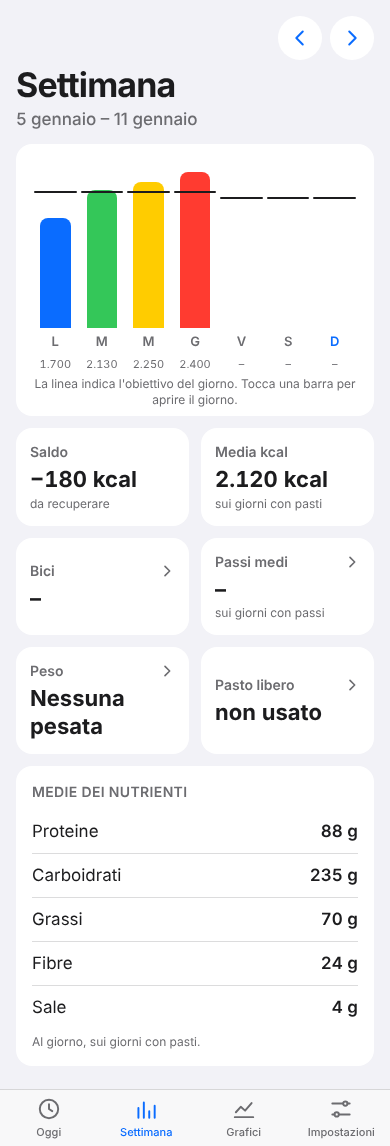
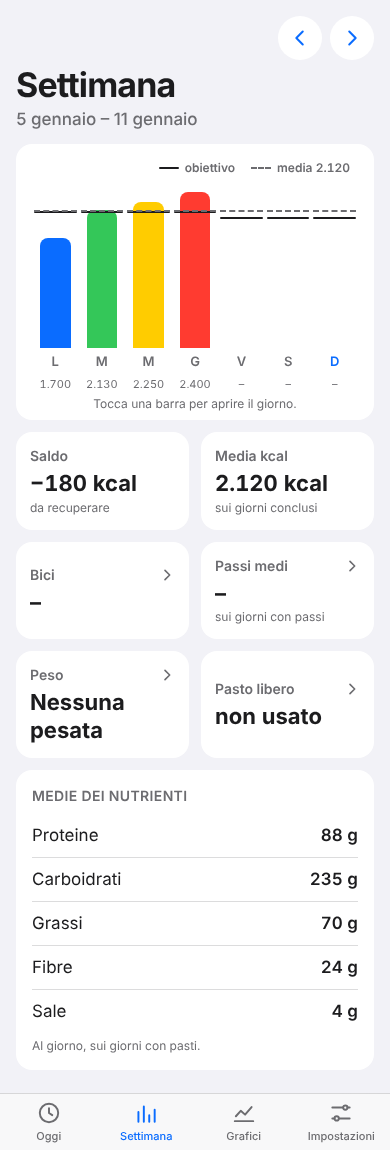
T5b.6 media della settimana sul grafico (in attesa di revisione)
Claude-Session: https://claude.ai/code/session_01Q1wTxDLrvVU4hsBJyp9sCk

diff --git a/src/engine/week.test.ts b/src/engine/week.test.ts
@@ -41,7 +41,8 @@ describe("weekSummary: settimana con dati", () => {
     day("2026-01-08", []), // senza pasti
     day("2026-01-12", [meal("fuori", 9999)]), // altra settimana
   ];
-  const w = weekSummary(MER, days, s);
+  // La settimana è già conclusa (oggi è il lunedì dopo): nessun giorno è escluso dalla media.
+  const w = weekSummary(MER, days, s, "2026-01-12");
 
   it("kcal e obiettivo di ogni giorno", () => {
     expect(w.days[0]).toMatchObject({ date: LUN, kcalEaten: 1750, kcalBudget: 1750, hasMeals: true });
@@ -90,5 +91,29 @@ describe("weekSummary: casi particolari", () => {
 
   it("nessun pasto libero se non usato", () => {
     expect(weekSummary(LUN, [day(LUN, [meal("a", 2000)])], s).freeMealUsed).toBe(false);
+  });
+});
+
+describe("media kcal sui giorni conclusi (§3.8, casi W, X, Y)", () => {
+  const GIO = "2026-01-08";
+  it("caso W: oggi giovedì; lun 2.000, mar senza pasti, mer 2.200, gio (oggi) 600 → media 2.100", () => {
+    const days = [day(LUN, [meal("a", 2000)]), day(MER, [meal("c", 2200)]), day(GIO, [meal("g", 600)])];
+    expect(weekSummary(GIO, days, s, GIO).avgKcal).toBe(2100);
+  });
+  it("caso X: oggi lunedì, pasti solo oggi → nessuna media", () => {
+    expect(weekSummary(LUN, [day(LUN, [meal("a", 800)])], s, LUN).avgKcal).toBeNull();
+  });
+  it("caso Y: settimana passata con 7 giorni di pasti → media sui 7 giorni", () => {
+    const days = ["2026-01-05", "2026-01-06", "2026-01-07", "2026-01-08", "2026-01-09", "2026-01-10", "2026-01-11"].map((d, i) => day(d, [meal(`m${i}`, 1800 + i * 100)]));
+    expect(weekSummary(LUN, days, s, "2026-01-20").avgKcal).toBe((1800 + 1900 + 2000 + 2100 + 2200 + 2300 + 2400) / 7);
+  });
+  it("oggi con pasti non conta, ma gli altri giorni sì; senza giorni validi il trattino", () => {
+    const days = [day(LUN, [meal("a", 1500)]), day(MAR, [meal("b", 2500)])];
+    expect(weekSummary(MAR, days, s, MAR).avgKcal).toBe(1500);
+    expect(weekSummary(MAR, [day(MAR, [meal("b", 2500)])], s, MAR).avgKcal).toBeNull();
+  });
+  it("le medie dei nutrienti non cambiano: includono anche oggi", () => {
+    const days = [day(LUN, [meal("a", 2000, { protein: 100 })]), day(GIO, [meal("g", 600, { protein: 20 })])];
+    expect(weekSummary(GIO, days, s, GIO).avgNutrients?.protein).toBe(60);
   });
 });

diff --git a/src/app/components/week-chart.tsx b/src/app/components/week-chart.tsx
@@ -14,8 +14,22 @@ const FILL: Record<RingColor, string> = {
 const CHART_HEIGHT = 168;
 
 /** Sette barre delle kcal mangiate con la linea dell'obiettivo di ogni giorno. Toccare una barra apre quel giorno. */
-export function WeekChart({ bars, today }: { bars: WeekBar[]; today: string }) {
+export function WeekChart({ bars, today, avg }: { bars: WeekBar[]; today: string; avg: { kcal: number; ratio: number } | null }) {
   return (
+    <div>
+    {/* Legenda: dice quale linea è l'obiettivo e quale la media; sta sopra le barre, quindi non le copre mai. */}
+    <p className="flex flex-wrap items-center justify-end gap-x-4 gap-y-1 px-2 pb-1 text-xs font-semibold text-muted" aria-label="Legenda del grafico">
+      <span className="flex items-center gap-1.5">
+        <span aria-hidden="true" className="block h-0.5 w-5 rounded-full bg-fg" />
+        obiettivo
+      </span>
+      {avg && (
+        <span data-avg-label className="flex items-center gap-1.5 tabular-nums">
+          <span aria-hidden="true" className="block w-5 border-t-2 border-dashed border-muted" />
+          media {formatNumber(avg.kcal)}
+        </span>
+      )}
+    </p>
     <ul className="flex" aria-label="Kcal mangiate per giorno">
       {bars.map((b) => {
         const label = `${formatDateLong(b.date)}: ${b.hasMeals ? `${formatNumber(b.eaten)} kcal mangiate` : "nessun pasto"}, obiettivo ${formatNumber(b.target)} kcal`;
@@ -24,6 +38,7 @@ export function WeekChart({ bars, today }: { bars: WeekBar[]; today: string }) {
           <li key={b.date} className="flex-1">
             <Link href={isToday ? "/" : `/?d=${b.date}`} aria-label={label} className="flex min-h-11 flex-col items-center gap-1 px-0.5">
               <span className="relative block w-full" style={{ height: CHART_HEIGHT }}>
+                {avg && <span aria-hidden="true" data-avg-line className="absolute inset-x-0 z-10 block border-t-2 border-dashed border-muted" style={{ bottom: `calc(${avg.ratio * 100}% - 1px)` }} />}
                 {b.hasMeals && (
                   <span
                     className="absolute inset-x-1.5 bottom-0 block rounded-t-lg"
@@ -39,5 +54,6 @@ export function WeekChart({ bars, today }: { bars: WeekBar[]; today: string }) {
         );
       })}
     </ul>
+    </div>
   );
 }

diff --git a/src/app/lib/week-view.test.ts b/src/app/lib/week-view.test.ts
@@ -57,3 +57,30 @@ describe("buildWeekView", () => {
     expect(v.summary.totalKm).toBe(10);
   });
 });
+
+describe("linea della media kcal (T5b.6)", () => {
+  const eat = (date: string, kcal: number) => day(date, [meal(`m-${date}`, kcal)]);
+  it("la media è quella dei giorni conclusi e la linea sta sulla stessa scala delle barre", () => {
+    const days = [eat("2026-01-05", 2000), eat("2026-01-07", 2200), eat("2026-01-08", 600)];
+    const v = buildWeekView({ date: "2026-01-08", days, settings: s, today: "2026-01-08" });
+    expect(v.summary.avgKcal).toBe(2100);
+    const top = Math.max(...v.bars.map((b) => Math.max(b.barRatio, b.targetRatio)));
+    expect(v.avgRatio).not.toBeNull();
+    expect(v.avgRatio as number).toBeGreaterThan(0);
+    expect(v.avgRatio as number).toBeLessThanOrEqual(1);
+    expect(top).toBeLessThanOrEqual(1);
+    // 2.100 sulla stessa scala di una barra da 2.100: stessa altezza.
+    const bar2100 = buildWeekView({ date: "2026-01-08", days: [eat("2026-01-05", 2100)], settings: s, today: "2026-01-20" });
+    expect(bar2100.avgRatio).toBeCloseTo(bar2100.bars[0].barRatio, 10);
+  });
+  it("senza media (solo oggi con pasti) la linea non c'è", () => {
+    const v = buildWeekView({ date: "2026-01-05", days: [eat("2026-01-05", 800)], settings: s, today: "2026-01-05" });
+    expect(v.summary.avgKcal).toBeNull();
+    expect(v.avgRatio).toBeNull();
+  });
+  it("una media più alta di ogni barra e di ogni obiettivo non esce dal grafico", () => {
+    const days = [eat("2026-01-05", 2000)];
+    const v = buildWeekView({ date: "2026-01-05", days, settings: s, today: "2026-01-20" });
+    expect(v.avgRatio as number).toBeLessThanOrEqual(1);
+  });
+});

diff --git a/src/engine/week.ts b/src/engine/week.ts
@@ -29,7 +29,7 @@ export interface WeekSummary {
   days: WeekDayRow[];
   /** Saldo della regola (§3.3, con il tetto al margine) fino al giorno più recente con pasti, questo compreso; null se nessun giorno ha pasti. */
   balance: number | null;
-  /** Media delle kcal reali sui giorni con pasti; null se nessuno. */
+  /** Media delle kcal reali sui giorni con pasti, escluso oggi (è in corso: abbasserebbe la media); null se nessun giorno è valido (§3.8). */
   avgKcal: number | null;
   avgNutrients: NutrientAverages | null;
   /** Km in bici totali; null se nessun giorno ha km. */
@@ -49,7 +49,8 @@ function mean(values: number[]): number | null {
 
 /**
  * Riepilogo della settimana (lunedì-domenica) che contiene `date`. I giorni mancanti sono considerati vuoti.
- * Se `today` è dato, l'obiettivo dei giorni dopo oggi è l'anteprima di §3.3 (`previewDayTarget`).
+ * Se `today` è dato, l'obiettivo dei giorni dopo oggi è l'anteprima di §3.3 (`previewDayTarget`) e la media delle kcal
+ * esclude il giorno di oggi (§3.8). Senza `today` nessun giorno è escluso. Il motore non legge la data da solo.
  */
 export function weekSummary(date: DateKey, knownDays: readonly Day[], settings: WeekSettings, today?: DateKey): WeekSummary {
   const dates = weekDates(date);
@@ -86,7 +87,7 @@ export function weekSummary(date: DateKey, knownDays: readonly Day[], settings: 
   return {
     days: rows,
     balance,
-    avgKcal: avgOf((d) => kcalEaten(d.meals)),
+    avgKcal: mean(eatenDays.filter((d) => d.date !== today).map((d) => kcalEaten(d.meals))),
     avgNutrients,
     totalKm: kmValues.length === 0 ? null : kmValues.reduce((a, b) => a + b, 0),
     avgSteps: mean(stepValues),

diff --git a/src/app/settimana-screen.tsx b/src/app/settimana-screen.tsx
@@ -84,7 +84,7 @@ export function SettimanaScreen() {
   const stats: StatProps[] = s
     ? [
         { label: "Saldo", value: s.balance === null ? dash : `${formatSigned(s.balance)} kcal`, hint: s.balance === null ? undefined : s.balance < 0 ? "da recuperare" : "di vantaggio" },
-        { label: "Media kcal", value: s.avgKcal === null ? dash : `${formatNumber(s.avgKcal)} kcal`, hint: "sui giorni con pasti" },
+        { label: "Media kcal", value: s.avgKcal === null ? dash : `${formatNumber(s.avgKcal)} kcal`, hint: "sui giorni conclusi" },
         { label: "Bici", value: s.totalKm === null ? dash : `${formatNumber(s.totalKm, 1)} km`, onOpen: () => setPanel("bici") },
         { label: "Passi medi", value: s.avgSteps === null ? dash : formatNumber(s.avgSteps), hint: "sui giorni con passi", onOpen: () => setPanel("passi") },
         { label: "Peso", value: card.value, hint: card.hint, hintTone: card.tone, onOpen: () => setPanel("peso") },
@@ -117,8 +117,8 @@ export function SettimanaScreen() {
       {view && s && (
         <div className="flex flex-col gap-3">
           <Card className="pb-2">
-            <WeekChart bars={view.bars} today={today} />
-            <p className="pt-1 text-center text-xs text-muted">La linea indica l&apos;obiettivo del giorno. Tocca una barra per aprire il giorno.</p>
+            <WeekChart bars={view.bars} today={today} avg={s.avgKcal === null || view.avgRatio === null ? null : { kcal: s.avgKcal, ratio: view.avgRatio }} />
+            <p className="pt-1 text-center text-xs text-muted">Tocca una barra per aprire il giorno.</p>
           </Card>
 
           {view.isEmpty && !weight && (

diff --git a/src/app/lib/week-view.ts b/src/app/lib/week-view.ts
@@ -18,6 +18,8 @@ export interface WeekBar {
 export interface WeekView {
   summary: WeekSummary;
   bars: WeekBar[];
+  /** Altezza della linea della media kcal (da 0 a 1, sulla stessa scala delle barre); null se la media non c'è. */
+  avgRatio: number | null;
   /** Nessun pasto, o attività in tutta la settimana. */
   isEmpty: boolean;
 }
@@ -25,7 +27,7 @@ export interface WeekView {
 /** Barre e riepilogo della settimana che contiene `date`, calcolati dal motore. */
 export function buildWeekView(input: { date: DateKey; days: readonly Day[]; settings: Settings; /** Oggi: i giorni dopo oggi usano l'anteprima dell'obiettivo. */ today?: DateKey }): WeekView {
   const summary = weekSummary(input.date, input.days, input.settings, input.today);
-  const top = Math.max(1, ...summary.days.map((d) => Math.max(d.kcalEaten, d.target))) * 1.08;
+  const top = Math.max(1, summary.avgKcal ?? 0, ...summary.days.map((d) => Math.max(d.kcalEaten, d.target))) * 1.08;
   const bars: WeekBar[] = summary.days.map((d) => ({
     date: d.date,
     hasMeals: d.hasMeals,
@@ -37,5 +39,5 @@ export function buildWeekView(input: { date: DateKey; days: readonly Day[]; sett
   }));
   const isEmpty =
     summary.balance === null && summary.totalKm === null && summary.avgSteps === null;
-  return { summary, bars, isEmpty };
+  return { summary, bars, avgRatio: summary.avgKcal === null ? null : summary.avgKcal / top, isEmpty };
 }

diff --git a/docs/DIARIO.md b/docs/DIARIO.md
@@ -62,6 +62,7 @@ Una riga per task chiuso.
 - T5b.3 · fatto · campo `freeMeal` sul pasto nello schema e nel prompt (con esempio); validazione tollerante (assente = falso, non booleano = non valida); interruttore «Pasto libero» su ogni pasto proposto (componente `FreeMealSwitch`, lo stesso del piatto a mano): acceso in partenza se segnalato e la settimana lo consente, disattivato con la spiegazione se la settimana ne ha già uno o se un altro pasto della proposta lo è, sempre modificabile; con la fascia fissata segue il pasto esistente; cambiando fascia ne segue lo stato. 5 scenari.
 - T5b.4 · fatto · `src/engine/coherence.ts` (`kcalFromMacros`, `needsKcalCheck`, costanti `kcalCheckShare` 0,20 e `kcalCheckMin` 40 in `defaults.ts`); casi T, U, V, soglie esatte, numeri a zero. Nella proposta il piatto segnalato ha «⚠ controlla» sulla riga e, aperto, la frase breve; nel piatto a mano stimato con l'AI la stessa frase sotto la nota. Non blocca, non cambia i numeri, si ricalcola a ogni ritocco. 4 scenari.
 - T5b.5 · fatto · preferiti (piatti e pasti) con `SwipeRow`: scorrendo a sinistra compare il cestino, che elimina subito senza conferma (`deleteFavorite`); tolta la modalità «Modifica» (con «Elimina» / «Elimina davvero»); il + e il tocco sulla riga aggiungono come prima. `npm run prova-scorrimento` ora prova anche i preferiti (20 controlli). Scenari `preferiti-modifica` e `preferiti-elimina` sostituiti da 3 scenari di scorrimento.
+- T5b.6 · in attesa di revisione · media kcal della settimana sui giorni conclusi (`weekSummary` esclude il giorno `today` dalla media; senza `today` non esclude nessuno): test esistenti della media aggiornati (si passa un `today` dopo la settimana), nuovi casi W, X, Y; la scheda dice «sui giorni conclusi»; sul grafico linea tratteggiata grigia alla media (`avgRatio`, stessa scala delle barre) e legenda sopra le barre («obiettivo», «media 2.040»). 4 scenari (sopra, sotto, vicina, assente).
 
 ## Decisioni da confermare
 
@@ -154,6 +155,7 @@ Una riga per task chiuso.
 - Pasto libero nella proposta (T5b.3): con la fascia fissata il segnale del modello è ignorato (l'interruttore parte dallo stato del pasto esistente, ma si può cambiare). Dopo «Rifai la stima» l'interruttore riparte dalle regole iniziali (le scelte fatte a mano sull'interruttore non si conservano).
 - Controllo di coerenza (T5b.4): soglie esatte non segnalate (serve superarle entrambe). Nel piatto a mano il controllo compare solo dopo «Stima con AI» (non sui numeri scritti a mano) e vale sui numeri correnti del modulo; se il modello divide il piatto in più piatti il controllo è sulla somma. La frase è la stessa nella proposta e nel piatto a mano.
 - Preferiti (T5b.5): nei preferiti il cestino è solo nello scorrimento (a differenza dei pannelli della Settimana non c'è un cestino sempre visibile), come da brief.
+- Media (T5b.6): l'etichetta «media 2.040» sta in una legenda sopra le barre (con «obiettivo»), non accanto alla linea: accanto avrebbe ristretto le barre sotto i 44 px o coperto la domenica. Solo la media delle kcal esclude oggi; le medie dei nutrienti restano su tutti i giorni con pasti.
 
 ## Non verificato
 
